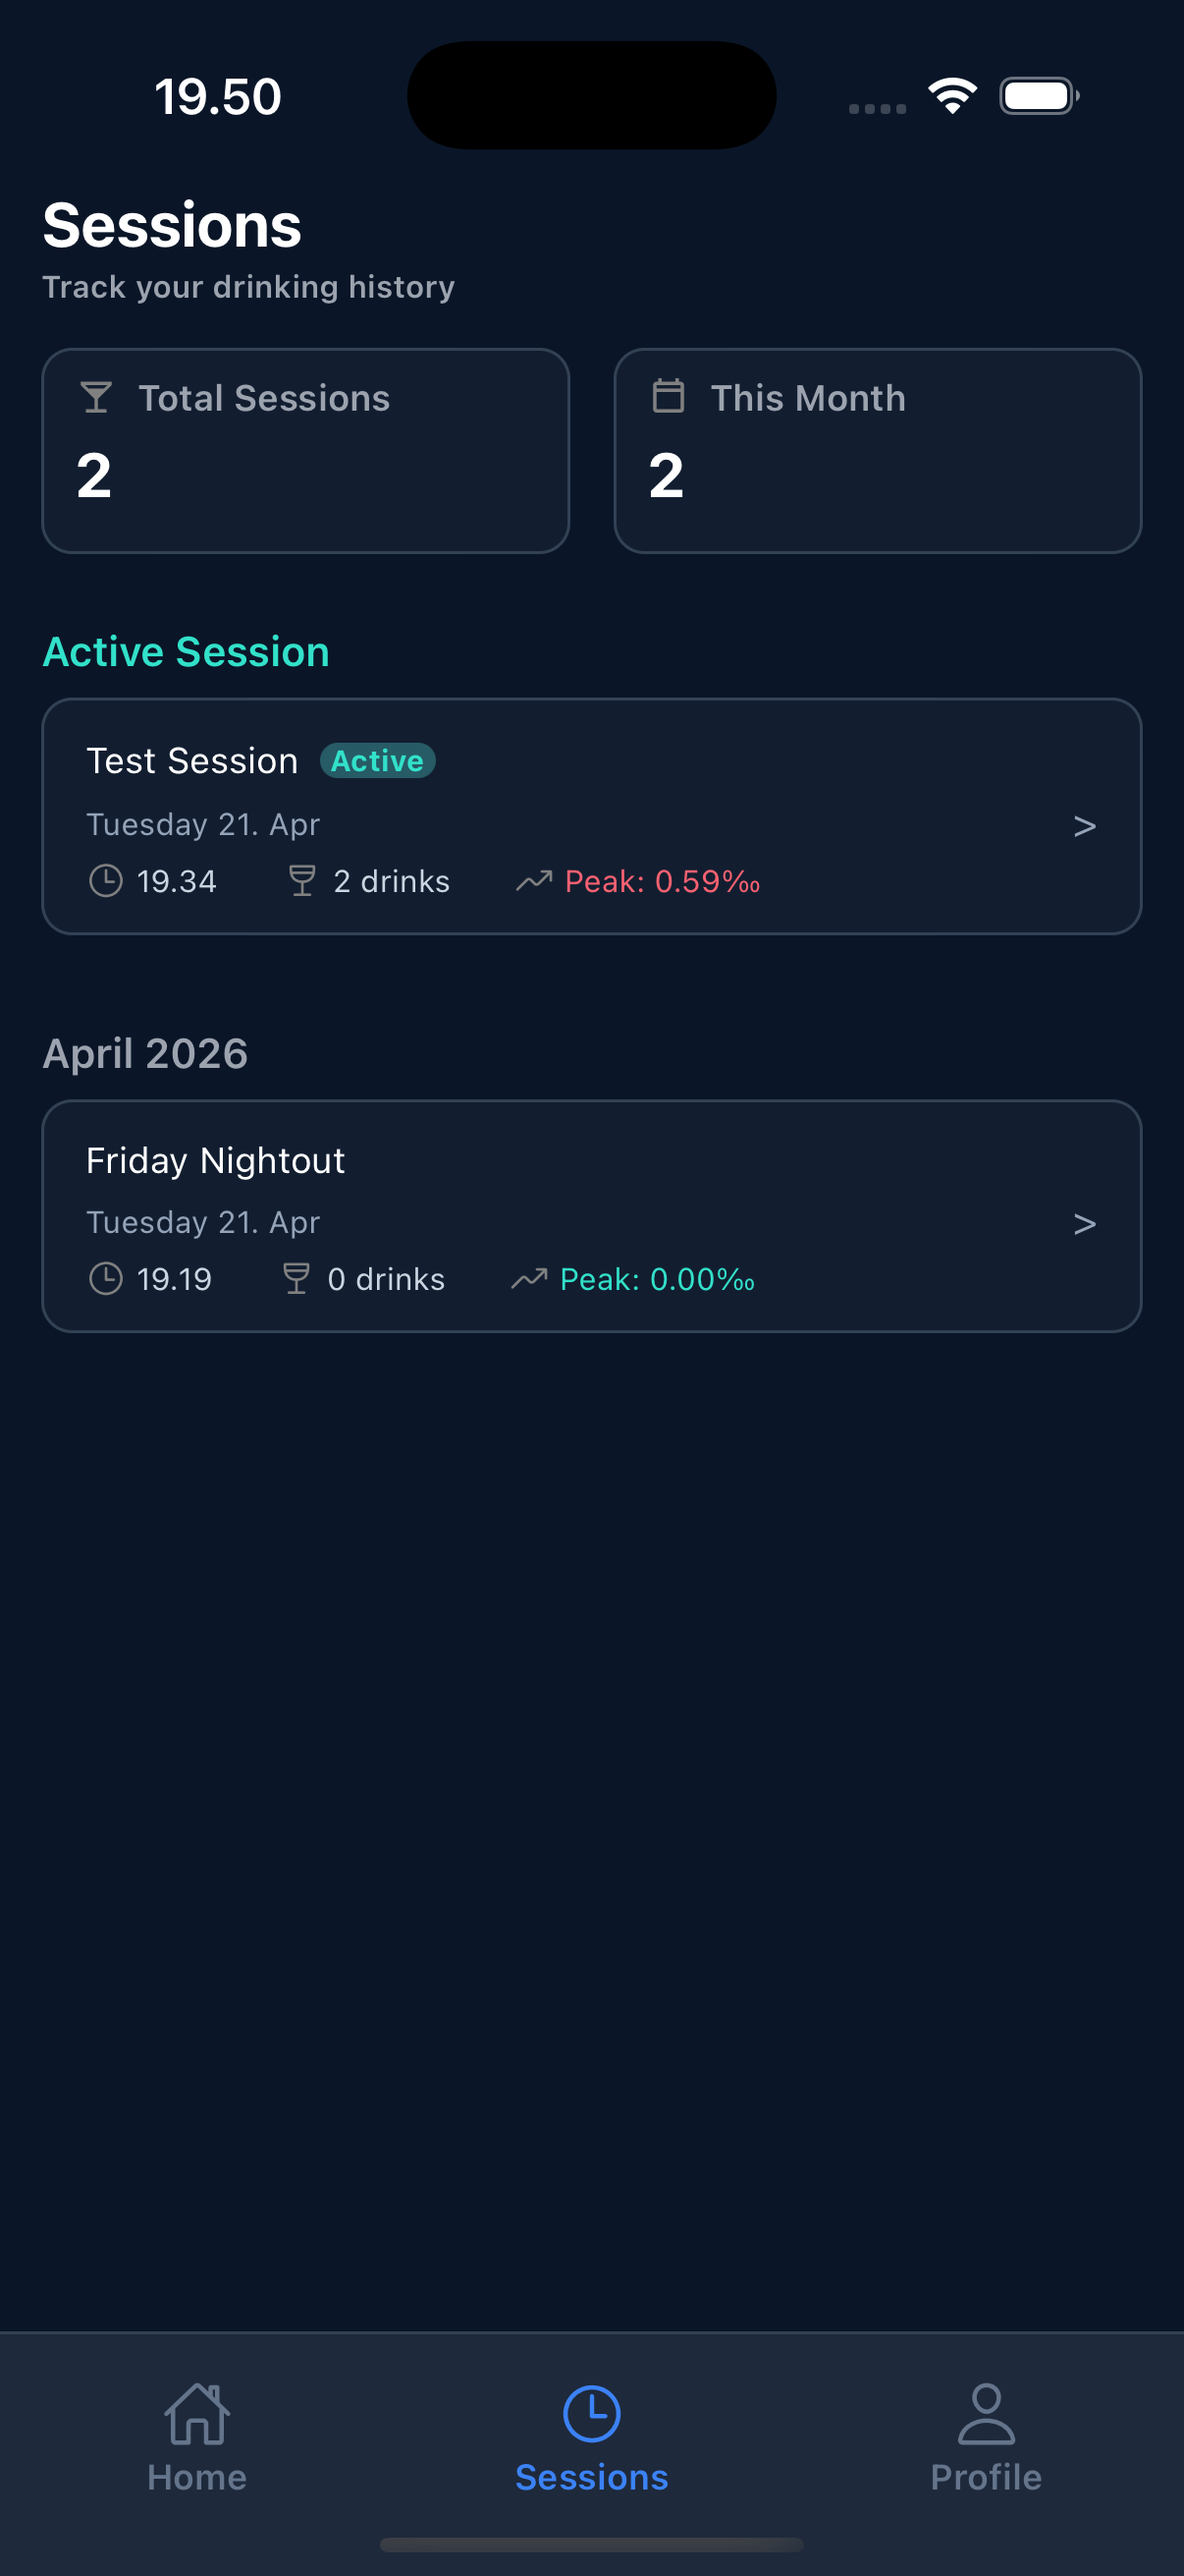
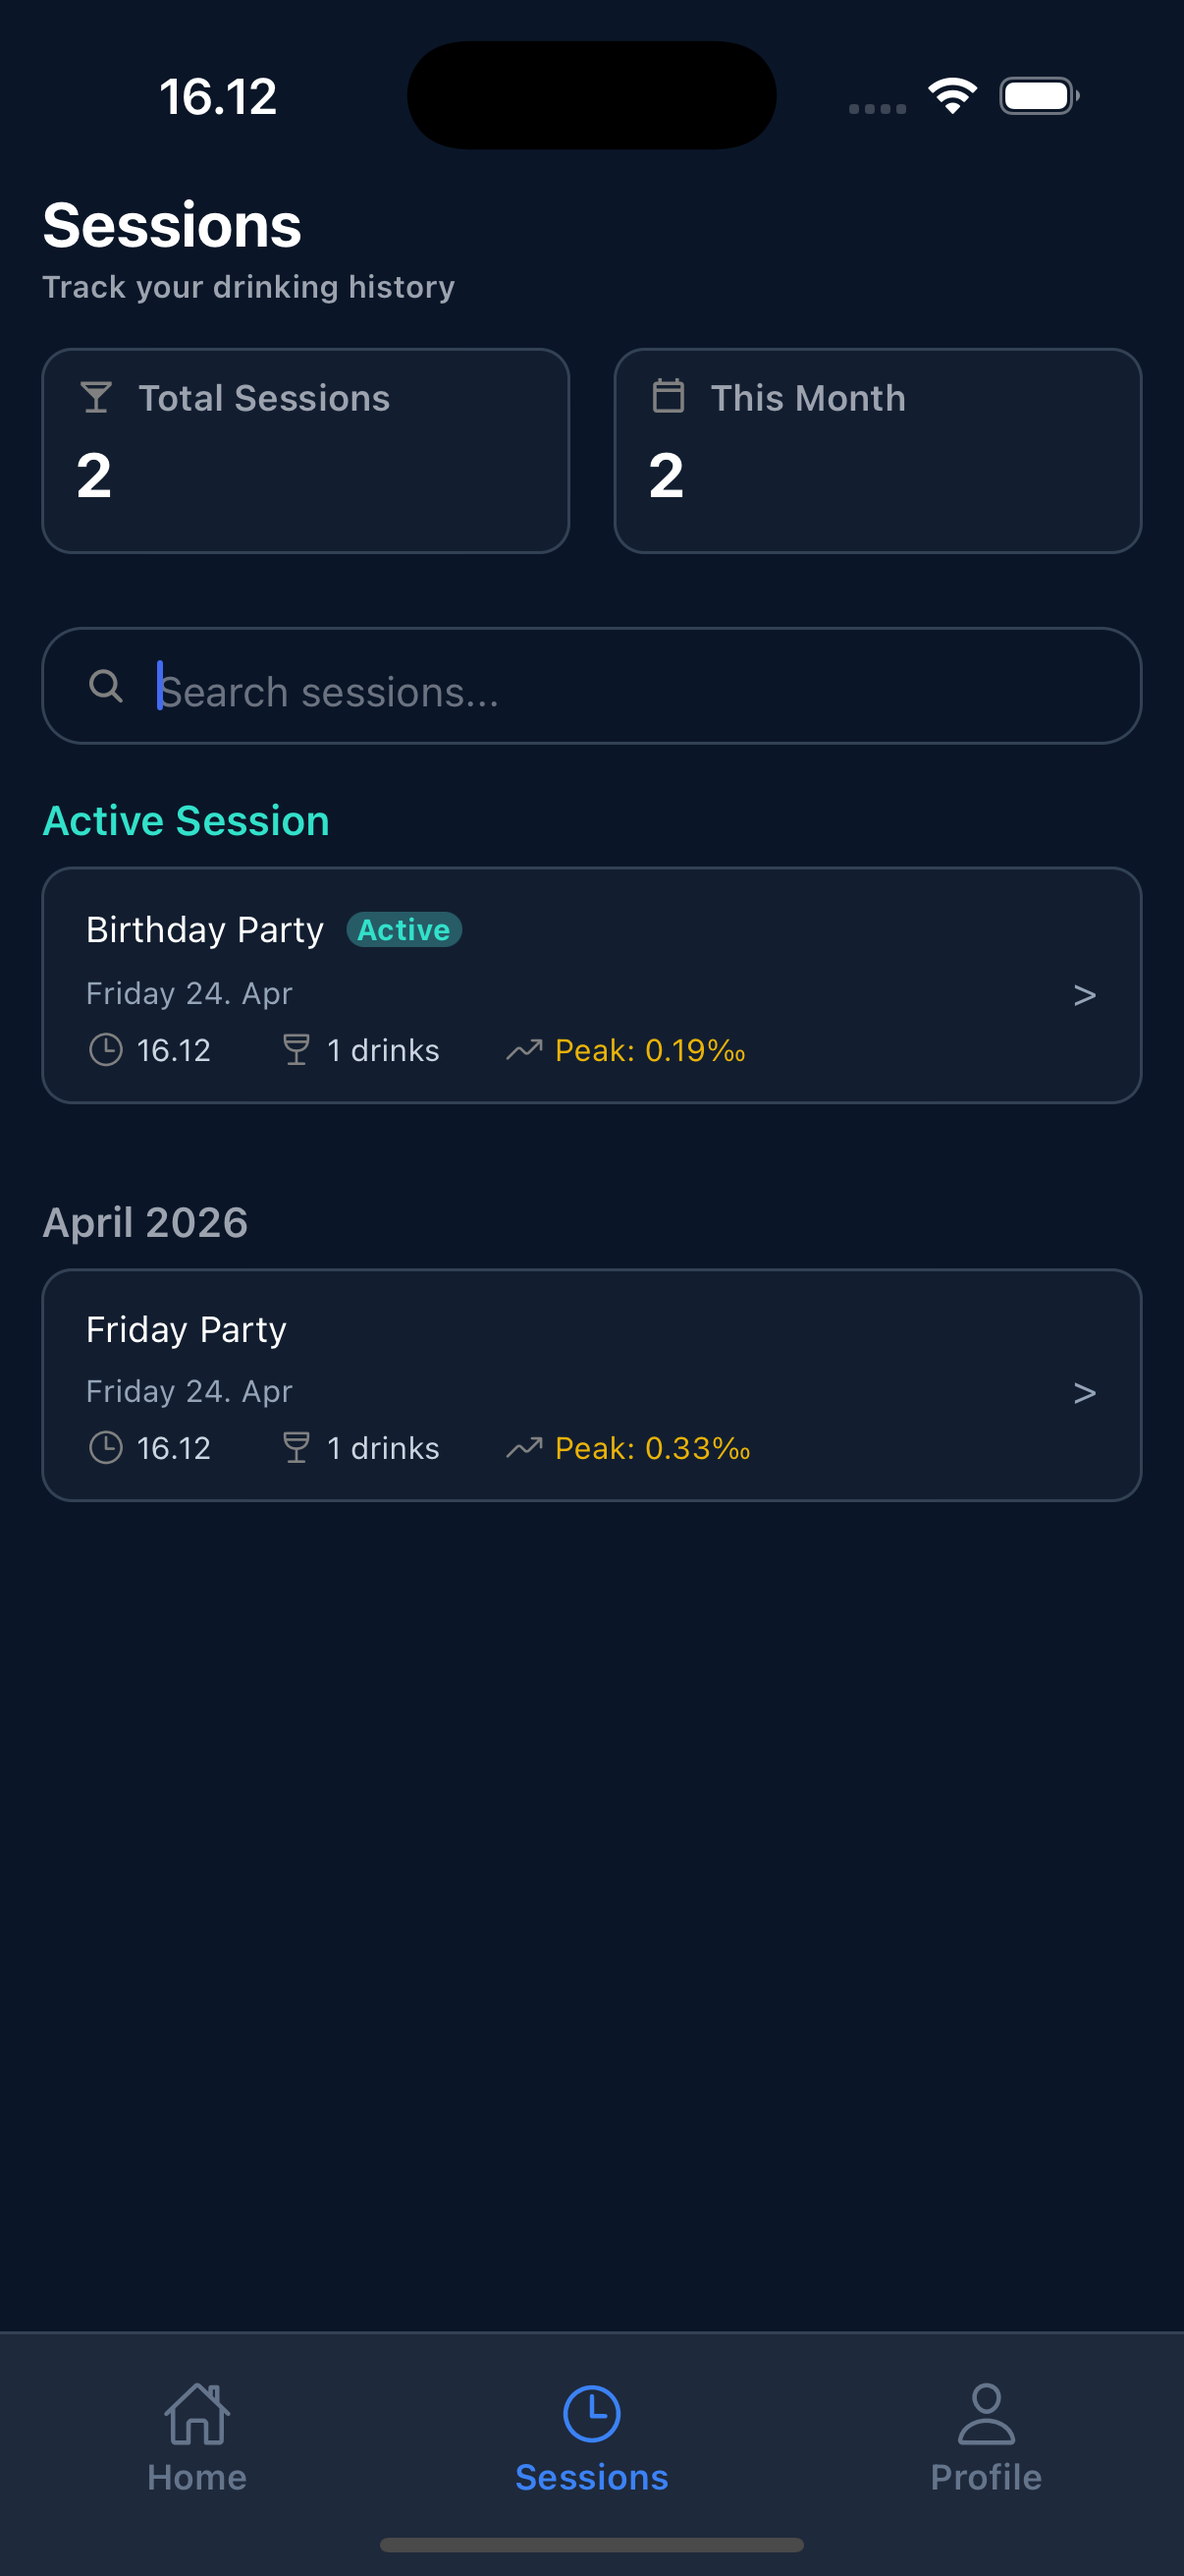
Add sessions search feature to sessions screen and update docs

diff --git a/frontend/src/app/(tabs)/sessions.tsx b/frontend/src/app/(tabs)/sessions.tsx
@@ -1,12 +1,15 @@
-import React from "react";
+import React, { useState } from "react";
 import { SafeAreaView } from "react-native-safe-area-context";
 import { Notification } from "@/src/components/ui/Notification";
 import SessionsHeader from "@/src/components/sessions/SessionsHeader";
 import { ScrollView } from "react-native";
 import SessionsCountSection from "@/src/components/sessions/SessionsCountSection";
 import SessionsSection from "@/src/components/sessions/SessionsSection";
+import SessionsSearch from "@/src/components/sessions/SessionsSearch";
 
 export default function SessionsScreen() {
+  const [searchTerm, setSearchTerm] = useState<string>("");
+
   return (
     <SafeAreaView className="flex-1 bg-[#0A1628]" edges={["top"]}>
       <Notification />
@@ -19,7 +22,8 @@ export default function SessionsScreen() {
           description="Track your drinking history"
         />
         <SessionsCountSection />
-        <SessionsSection />
+        <SessionsSearch searchTerm={searchTerm} setSearchTerm={setSearchTerm} />
+        <SessionsSection searchTerm={searchTerm} />
       </ScrollView>
     </SafeAreaView>
   );

diff --git a/frontend/src/components/sessions/SessionsSection.tsx b/frontend/src/components/sessions/SessionsSection.tsx
@@ -3,13 +3,25 @@ import SessionCard from "./SessionCard";
 import { useSessions } from "@/src/hooks/useSessions";
 import { groupSessionsByMonth } from "@/src/utils/groupSessionsByMonth";
 
-const SessionsSection = () => {
+interface SessionsScreenProps {
+  searchTerm: string;
+}
+
+const SessionsSection = ({ searchTerm }: SessionsScreenProps) => {
   const { sessions } = useSessions();
 
   if (!sessions) return null;
 
-  const activeSession = sessions.find((s) => s.active);
-  const pastSessions = sessions.filter((s) => !s.active);
+  const normalizedSearch = searchTerm.toLocaleLowerCase().trim();
+
+  const filteredSessions = sessions.filter((session) => {
+    if (!normalizedSearch) return true;
+
+    return session.sessionName?.toLowerCase().includes(normalizedSearch);
+  });
+
+  const activeSession = filteredSessions.find((s) => s.active);
+  const pastSessions = filteredSessions.filter((s) => !s.active);
 
   const sorted = [...pastSessions].sort(
     (a, b) => new Date(b.startedAt).getTime() - new Date(a.startedAt).getTime(),

diff --git a/frontend/src/components/sessions/SessionsSearch.tsx b/frontend/src/components/sessions/SessionsSearch.tsx
@@ -1,0 +1,25 @@
+import { View, TextInput } from "react-native";
+import { Ionicons } from "@expo/vector-icons";
+
+interface SessionsSearchProps {
+  searchTerm: string;
+  setSearchTerm: (value: string) => void;
+}
+
+const SessionsSearch = ({ searchTerm, setSearchTerm }: SessionsSearchProps) => {
+  return (
+    <View className="mb-5 flex-row items-center rounded-2xl bg-[#0A1628] px-4 py-3 border border-slate-700">
+      <Ionicons name="search" size={14} color="gray" />
+
+      <TextInput
+        value={searchTerm}
+        onChangeText={setSearchTerm}
+        placeholder="Search sessions..."
+        placeholderTextColor="#6B7280"
+        className="ml-3 flex-1 text-white"
+      />
+    </View>
+  );
+};
+
+export default SessionsSearch;

diff --git a/documentation/userManual/sessionsScreens/sessionHistoryScreen.md b/documentation/userManual/sessionsScreens/sessionHistoryScreen.md
@@ -18,6 +18,8 @@ At the top of the screen, you’ll find a quick summary:
 - **This Month**  
   The number of sessions created during the current month
 
+- You can **search** for certain sessions from the box below the summary data
+
 ---
 
 ## Active Session
